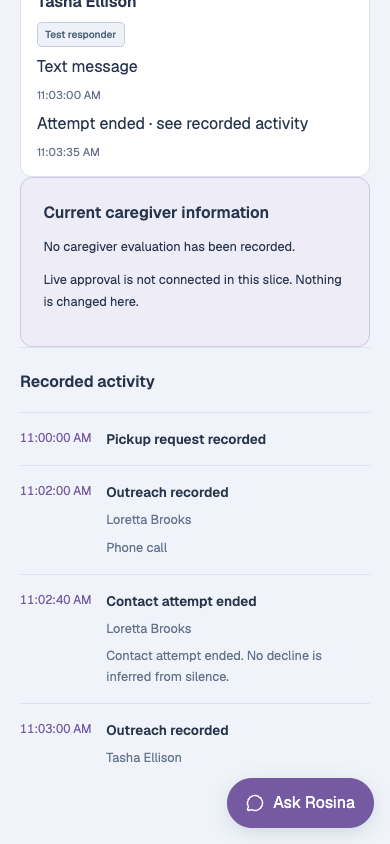
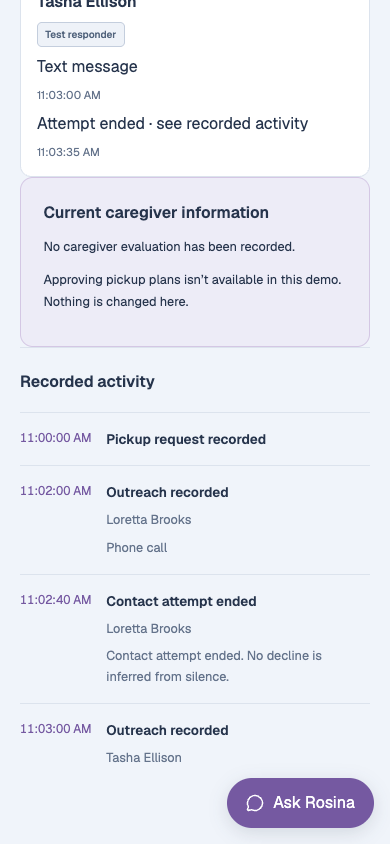
chore(web): finalize W4b copy and draft evidence

Changed region(s): [[0.0923, 0.3081, 0.8923, 0.3697]]

diff --git a/web/src/features/mission-control/LiveMissionControl.tsx b/web/src/features/mission-control/LiveMissionControl.tsx
@@ -22,7 +22,7 @@ export function LiveMissionControl({accessDenied}:{accessDenied:ReactNode}){
  <label>Pickup record<select aria-label="Pickup record" value={run.job.id} onChange={e=>setSelected(e.target.value)}>{runs.map((r,i)=><option key={r.job.id} value={r.job.id}>Pickup {i+1} · {pickupStatusLabel(r.job.status)}</option>)}</select></label>
  <header className="mcv-job"><div><p>{run.timeline.length?'Stored pickup record':'Pickup record · event times not recorded'}</p><h2>{session?.scope.childName.split(' ')[0]}’s pickup</h2><p>{pickupStatusLabel(run.job.status)}</p></div></header>
  <div className="mcv-lane-grid">{run.attempts.map(a=><article key={a.id} className="mcv-lane"><h3>{a.candidate?.displayName??'Caregiver not recorded'}</h3><span className="mcv-contact">{contactBadge(a.destinationMode)}</span><p>{contactChannelLabel(a.channel)}</p><time dateTime={a.at}>{formatRecordedTime(a.at)}</time><p>{a.closedAt?'Attempt ended · see recorded activity':'Attempt open · no reply recorded'}</p>{a.closedAt&&<time dateTime={a.closedAt}>{formatRecordedTime(a.closedAt)}</time>}</article>)}</div>
- <section className="mcv-decision"><h3>Current caregiver information</h3>{!run.job.candidateEvaluations.length&&<p>No caregiver evaluation has been recorded.</p>}{run.job.candidateEvaluations.map(e=><p key={e.candidate.id}>{e.candidate.displayName}: {reasonLabel(e.reasonCode)}. {e.available===true?'Available':e.available===false?'Not available':'Availability not recorded'}.</p>)}<p>{session?.marks?.demoGuide?'Demo guide is read-only':'Live approval is not connected in this slice. Nothing is changed here.'}</p></section>
+ <section className="mcv-decision"><h3>Current caregiver information</h3>{!run.job.candidateEvaluations.length&&<p>No caregiver evaluation has been recorded.</p>}{run.job.candidateEvaluations.map(e=><p key={e.candidate.id}>{e.candidate.displayName}: {reasonLabel(e.reasonCode)}. {e.available===true?'Available':e.available===false?'Not available':'Availability not recorded'}.</p>)}<p>{session?.marks?.demoGuide?'Demo guide is read-only':'Approving pickup plans isn’t available in this demo. Nothing is changed here.'}</p></section>
  <section className="mcv-timeline"><h3>Recorded activity</h3>{!run.timeline.length?<p>Event times not recorded.</p>:<ol>{run.timeline.map((e,i)=><li key={`${e.at}:${e.kind}:${i}`}><time dateTime={e.at}>{formatRecordedTime(e.at)}</time><div><h4>{title[e.kind]??'Recorded activity'}</h4>{e.candidate&&<p>{e.candidate.displayName}</p>}{e.kind==='ATTEMPT_OPENED'&&<p>{contactChannelLabel(e.detail??'—')}</p>}{e.kind==='ATTEMPT_CLOSED'&&<p>Contact attempt ended. No decline is inferred from silence.</p>}</div></li>)}</ol>}</section>
  </>}
  </section>

diff --git a/docs/handoff/HANDOFF.md b/docs/handoff/HANDOFF.md
@@ -1926,7 +1926,7 @@ results. Full assertions remain nonzero; do not mark integrated or DONE from the
 Guide topology remains parent-only per E2e; guide goals refusal is recorded, not invented away.
 
 Two simultaneous contexts verified independent browser identities. Supplemental Kendra → Dana
-visual check sampled **32 frames, zero old pickup records**. Token-leak scans in-process PASS:
+visual check sampled **35 frames, zero old pickup records**. Token-leak scans in-process PASS:
 zero held token/current-prefix hits, zero new generic-prefix matches; existing generic matches
 inspected (redacted evidence/patterns/integrity text/binary PNG), no matching content printed.
 Coverage/filenames and exclusions are in the receipts. No credential-file reads, traces, HAR,
@@ -1968,5 +1968,13 @@ Removed the obsolete, unused ConnectedEntry browser Supabase client; all session
 through the documented endpoint. No browser Supabase imports remain in application source.
 Final after rebase/provenance correction: root staged secret scan **420 files, 0 findings**.
 The refreshed full live receipt has exactly six directory-name failures, not a weakened assertion.
-Supplementary frame audit: 32 frames / zero old pickup records. Temporary Playwright logs were
+Supplementary frame audit: 35 frames / zero old pickup records. Temporary Playwright logs were
 scanned before cleanup; screenshots and safe receipts remain in web/evidence/demo-login/.
+
+Published **DRAFT PR #32**: https://github.com/Pettybytes/fridgegraph/pull/32.
+UI complete · backend partial · integrated + tested partial; NOT DONE. Keep the six directory
+isolation failures visible. Local final suite 197/197, web typecheck/build and root typecheck
+PASS; secret scan 420 files / 0 findings; catalog drift PASS. CI typecheck/secret scan and web
+build passed on initial implementation 25c5b6f; final evidence/copy follow-up checked on the PR.
+Only the task-owned local Rosina process was stopped after the probes; shared demo login,
+routers and MCP were not stopped or reset. No merge, tag, release, seed or database mutation.

diff --git a/web/evidence/demo-login/README.md b/web/evidence/demo-login/README.md
@@ -65,7 +65,7 @@ actual read. No frontend rewrite hid the wording.
 
 Two concurrent browser contexts: A stayed Kendra while B chose Dana and switched to Andre; A's
 identity and in-memory session did not change. Additional visual run (`visual-results.json`):
-Kendra → Dana sampled 32 animation frames with zero surviving Nora pickup records. Unit tests
+Kendra → Dana sampled 35 animation frames with zero surviving Nora pickup records. Unit tests
 also check synchronous DOM/cache clearing, aborts, generation guards, late logins/renewals, and
 late GraphQL/Rosina responses. No sign-out/revoke endpoint is called.
 
